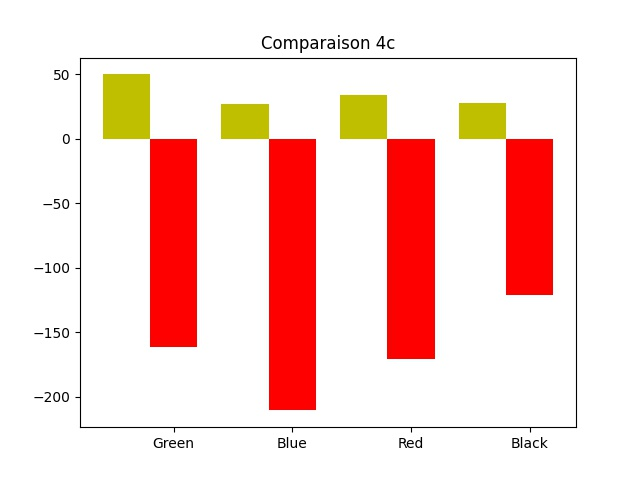
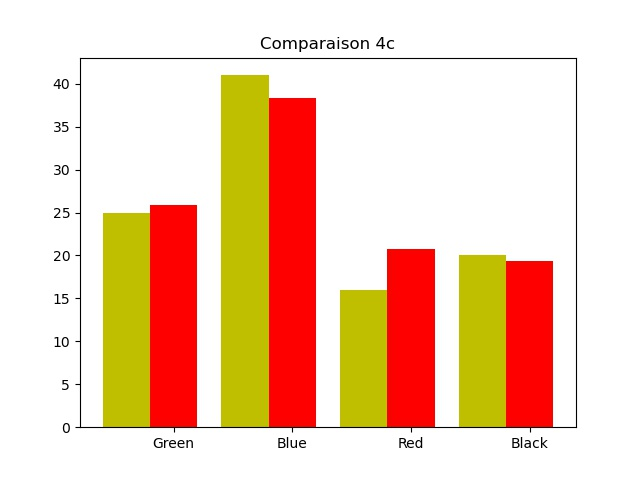
last version

diff --git a/changeif/main.py b/changeif/main.py
@@ -220,7 +220,6 @@ def initialize():
 	ws.config(text='     total = '+str(cost[0]))
 
 def display_policy():
-	print("ppp",policy)
 	window = Tk()
 	window.title("Politique Total")
 	cv = Canvas(window, width = Largeur, height =Hauteur, bg =mywhite)
@@ -551,7 +550,6 @@ def calcul_proba_suivi_policy():
 							res[i][j][5] += p * p0
 							res[i][j][2] += p * p1
 							res[i][j][8] += p * p1
-	print("RRRRes", res[:][:][4])
 	return res
 
 
@@ -842,15 +840,17 @@ def comparer_make_image_4c():
 	score2 = np.mean(np.array(scores_list2))
 	score3 = np.mean(np.array(scores_list3))
 	score4 = np.mean(np.array(scores_list4))
+	'''
 	valeurs_list[0][0]=0
 	valeurs_list[0][1]=0
 	valeurs_list[0][2]=0
 	valeurs_list[0][3]=0
+	'''
 	#print("Valeur ::: ",valeurs_list)
-	score_espere1 = valeurs_list[0][0]
-	score_espere2 = valeurs_list[0][1]
-	score_espere3 = valeurs_list[0][2]
-	score_espere4 = valeurs_list[0][3]
+	score_espere1 = valeurs_list[0]
+	score_espere2 = valeurs_list[1]
+	score_espere3 = valeurs_list[2]
+	score_espere4 = valeurs_list[3]
 
 
 	name_list = ['Green','Blue','Red','Black']
@@ -864,6 +864,7 @@ def comparer_make_image_4c():
 	plt.bar(x, num_list, width=width, label='moyen 15-tests',fc = 'y')
 	for i in range(len(x)):
 	    x[i] = x[i] + width
+
 	plt.bar(x, num_list1, width=width, label='valeurs espées',tick_label = name_list,fc = 'r')
 	plt.title("Comparaison 4c")
 	plt.savefig('./Results/4C/'+str(p)+"_"+str(nbl)+"mult"+str(nbc)+"_scoreComparaison.jpg")
@@ -884,7 +885,6 @@ def comparer_make_image_4d():
 	policy,valeur=optimale(nblignes, nbcolonnes,4 , g1,proba, gamma=1)
 	reussi_a, score_a = autoWalk()
 	valeur_a = [score_a[0], score_a[1], score_a[2], score_a[3]]
-	print("Reussi (a)? ",reussi_a,'\nReussi (b)? ',reussi_b)
 	name_list = ['Green','Blue','Red','Black']
 	num_list = score_a
 	num_list1 = score_b

diff --git a/changeif/minmax.py b/changeif/minmax.py
@@ -96,7 +96,6 @@ def multioptimale(n,m,nba,grill1,p,gamma,objectif,color):
     # G : matrice des gains
 
     grill=change_grill(grill1,n,m,objectif)
-    print(grill1[n-1][m-1][1])
     
     nbcont = n*m
     nbvar = n*m*nba
@@ -252,7 +251,6 @@ def multioptimale(n,m,nba,grill1,p,gamma,objectif,color):
     else:
         tab=np.ones((n,m,nba))
         
-    print(tab)
     return tab ,objtab
 def transfergrill(grill,n,m,color):
     newgrill=np.zeros((n+2,m+2,color))
@@ -288,14 +286,12 @@ def calculesperance(tab,grill1,n,m,color):
                         +tab[i-1][j-1][7]*(x[i+1,j,c]+grill[i+1][j][c]) \
                         +tab[i-1][j-1][8]*(x[i+1,j+1,c]+grill[i+1][j+1][c]))
                 if(tab[i-1][j-1][4]==1):
-                    print(i,j)
 
     for i in range(n+2) :
         for j in range(m+2):
             if(oldgrill[i][j][0]<=0):
                 for c in range(color):
                     m1.addConstr(x[i,j,c]==0)
-                print(i,j)
 
 
     obj = LinExpr();
@@ -304,7 +300,6 @@ def calculesperance(tab,grill1,n,m,color):
     m1.setObjective(obj,GRB.MAXIMIZE)
     m1.setParam("OutputFlag",True)
     m1.optimize()
-    print(m1.status)
     tab1=np.zeros(color)
     for c in range(color):
         tab1[c]=x[1,1,c].X
